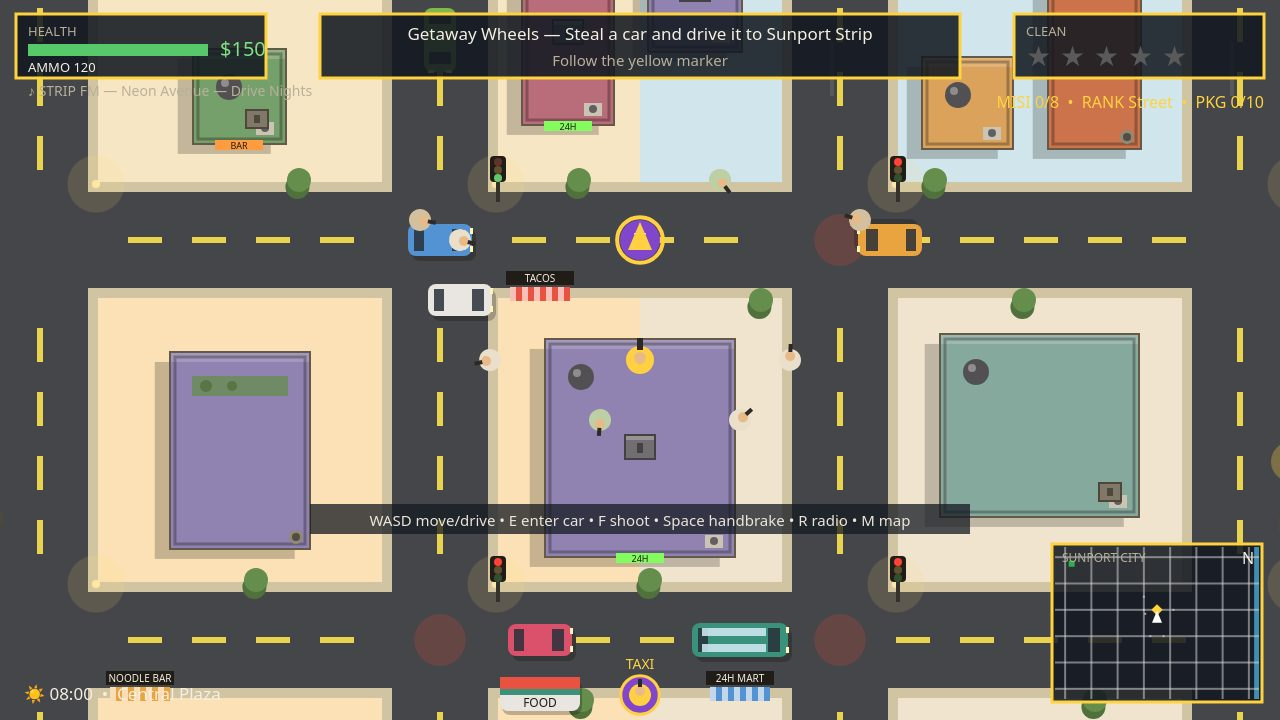
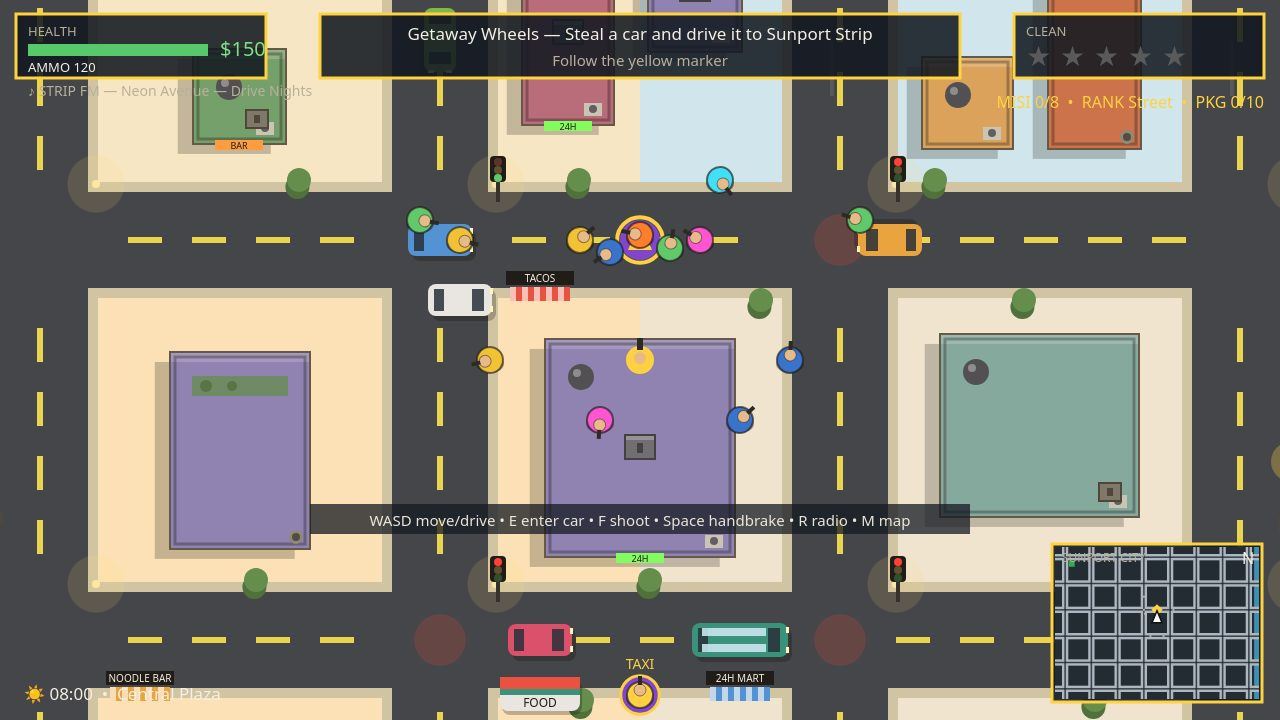
Sunport City round 6: visible pedestrians, street minimap

diff --git a/game/src/shots.js b/game/src/shots.js
@@ -58,6 +58,23 @@ function addPeds(state, spots) {
   }
 }
 
+// A group of pedestrians crossing the road together, in vivid shirt colours
+// so they read as people at a glance: staged in the middle of the frame.
+const CROSS_COLORS = ['#f2c230', '#2f6fd0', '#ff7a2a', '#58c96b', '#ff4fd8', '#9b59b6'];
+
+function addCrossingGroup(state, spots) {
+  spots.forEach(([x, y], i) => {
+    const ped = makePed(state, x, y, false);
+    ped.state = 'walk';
+    ped.mode = 'cross';
+    ped.crossAxis = 'h';
+    ped.crossDir = 1;
+    ped.crossLeft = 120;
+    ped.color = CROSS_COLORS[i % CROSS_COLORS.length];
+    state.peds.push(ped);
+  });
+}
+
 function frameCamera(state) {
   const p = state.player;
   state.camera.x = clamp(p.x - VIEW.width / 2, 0, WORLD.width - VIEW.width);
@@ -112,7 +129,8 @@ export function stageShot(name, state) {
       [1520, 940], [1680, 940], [1450, 1120], [1750, 1120],
       [1380, 980], [1820, 980], [1560, 1180], [1700, 1180],
     ]);
-    // One pedestrian mid-crossing at the crosswalk by the lights.
+    // One pedestrian mid-crossing at the crosswalk by the lights, plus a
+    // whole group crossing the Strip intersection in the middle of the frame.
     const crosser = state.peds[0];
     crosser.mode = 'cross';
     crosser.crossAxis = 'h';
@@ -120,6 +138,9 @@ export function stageShot(name, state) {
     crosser.crossLeft = 90;
     crosser.x = 1420;
     crosser.y = 1000;
+    addCrossingGroup(state, [
+      [1540, 1000], [1570, 1012], [1600, 995], [1630, 1008], [1660, 1000],
+    ]);
     addTrafficCar(state, 1400, 1000, 0, '#4a90d9');
     addTrafficCar(state, 1850, 1000, Math.PI, '#e8a13c');
     addTrafficCar(state, 1400, 800, Math.PI / 2, '#7ab648');
@@ -153,7 +174,7 @@ export function stageShot(name, state) {
     addTrafficCar(state, 1450, 1000, 0, '#e8a13c');
     addTrafficCar(state, 400, 1800, Math.PI, '#5a5a5a');
     addTrafficCar(state, 900, 1000, 0, '#f2c230', 'taxi');
-    addPeds(state, [[750, 1330], [900, 1470], [500, 1330]]);
+    addPeds(state, [[750, 1330], [900, 1470], [500, 1330], [700, 1330], [850, 1470], [1000, 1330], [1150, 1470]]);
     state.toast = { text: 'Mara Voss: "Checkpoint 2/5 — floor it!"', timer: 4 };
     frameCamera(state);
     return { screen: 'play' };
@@ -179,7 +200,7 @@ export function stageShot(name, state) {
     addPoliceCar(state, 2080, 2075, 0, 410);
     addTrafficCar(state, 1500, 2000, 0, '#4a90d9');
     addTrafficCar(state, 1750, 2000, 0, '#8a7a5a', 'truck');
-    addPeds(state, [[2400, 1940], [2550, 2060], [2300, 2080]]);
+    addPeds(state, [[2400, 1940], [2550, 2060], [2300, 2080], [2350, 1940], [2500, 1940], [2450, 2080], [2250, 1940]]);
     state.toast = { text: 'Mara Voss: "Last run, Kingpin. Bring it home!"', timer: 4 };
     frameCamera(state);
     return { screen: 'play' };
@@ -231,7 +252,11 @@ export function stageShot(name, state) {
   addTrafficCar(state, 1180, 1400, Math.PI, '#7ab648');
   addTrafficCar(state, 1750, 1000, 0, '#2f8f7a', 'bus');
   addTrafficCar(state, 1050, 1400, 0, '#f2c230', 'taxi');
-  addPeds(state, [[1500, 940], [1350, 1120], [1700, 1120], [1250, 940]]);
+  addPeds(state, [[1500, 940], [1350, 1120], [1700, 1120], [1250, 940], [1450, 1120], [1550, 1120]]);
+  // A group crossing the Strip just west of the chase, in the middle of the frame.
+  addCrossingGroup(state, [
+    [1080, 1000], [1110, 1012], [1140, 995], [1170, 1008], [1200, 1000],
+  ]);
   state.toast = { text: 'Mara Voss: "Eyes in the sky — four stars and counting!"', timer: 4 };
   frameCamera(state);
   return { screen: 'play' };

diff --git a/game/src/hud.js b/game/src/hud.js
@@ -2,7 +2,7 @@
 // logical screen space (1280x720) after the renderer switches the transform:
 // health and cash top-left, wanted stars top-right, the objective across the
 // top, the clock and district bottom-left, and the minimap bottom-right.
-import { FONT, FOOD_TRUCK, PALETTE, PLACES, RANKS, STOREFRONTS, VIEW, WORLD } from './config.js';
+import { FONT, FOOD_TRUCK, PALETTE, PLACES, RANKS, ROAD, STOREFRONTS, VIEW, WORLD } from './config.js';
 import { currentTarget } from './missions.js';
 import { districtAt } from './city.js';
 import { daylight } from './daynight.js';
@@ -53,12 +53,23 @@ function drawMinimap(ctx, state, big) {
   ctx.beginPath();
   ctx.rect(x + 3, y + 3, w - 6, h - 6);
   ctx.clip();
-  // Water and roads.
+  // City blocks: a dark map bed, so the streets read as light roads on it.
+  ctx.fillStyle = '#232b33';
+  ctx.fillRect(x + 3, y + 3, w - 6, h - 6);
+  // Water on the east edge.
   ctx.fillStyle = PALETTE.water;
   ctx.fillRect(x + state.city.water.x * sx, y, state.city.water.w * sx, h);
-  ctx.fillStyle = 'rgba(220,220,220,0.5)';
-  for (const vx of state.city.lines.vertical) ctx.fillRect(x + vx * sx - 1, y, 2, h);
-  for (const hy of state.city.lines.horizontal) ctx.fillRect(x, y + hy * sy - 1, w, 2);
+  // The actual street network: each road drawn at its true width, light
+  // grey on the dark blocks, with a thin dark centre line down the middle
+  // so every street reads as a street, GTA-style.
+  const roadW = ROAD.width * sx;
+  const roadH = ROAD.width * sy;
+  ctx.fillStyle = '#aeb6bf';
+  for (const vx of state.city.lines.vertical) ctx.fillRect(x + vx * sx - roadW / 2, y, roadW, h);
+  for (const hy of state.city.lines.horizontal) ctx.fillRect(x, y + hy * sy - roadH / 2, w, roadH);
+  ctx.fillStyle = 'rgba(35,43,51,0.85)';
+  for (const vx of state.city.lines.vertical) ctx.fillRect(x + vx * sx - 0.75, y, 1.5, h);
+  for (const hy of state.city.lines.horizontal) ctx.fillRect(x, y + hy * sy - 0.75, w, 1.5);
   // Safehouse.
   ctx.fillStyle = '#2fae4e';
   ctx.fillRect(x + PLACES.safehouse.x * sx - 3, y + PLACES.safehouse.y * sy - 3, 6, 6);
@@ -109,6 +120,9 @@ function drawMinimap(ctx, state, big) {
   ctx.lineTo(-5, 5);
   ctx.closePath();
   ctx.fill();
+  ctx.strokeStyle = '#111';
+  ctx.lineWidth = 1.5;
+  ctx.stroke();
   ctx.restore();
   ctx.restore();
   // North.

diff --git a/game/src/render.js b/game/src/render.js
@@ -402,22 +402,36 @@ export function createRenderer(canvas) {
       context.rotate(Math.PI / 2);
       context.fillStyle = ped.color;
       context.beginPath();
-      context.arc(0, 0, 11, 0, Math.PI * 2);
+      context.arc(0, 0, 13, 0, Math.PI * 2);
       context.fill();
+      context.strokeStyle = 'rgba(20,20,20,0.6)';
+      context.lineWidth = 2;
+      context.stroke();
       context.restore();
       return;
     }
+    // Soft ground shadow, so the walker reads against any ground or road.
+    context.fillStyle = 'rgba(0,0,0,0.30)';
+    context.beginPath();
+    context.ellipse(0, 4, 14, 9, 0, 0, Math.PI * 2);
+    context.fill();
     context.rotate(ped.angle);
     context.fillStyle = ped.armed ? '#c0392b' : ped.color;
     context.beginPath();
-    context.arc(0, 0, 11, 0, Math.PI * 2);
+    context.arc(0, 0, 13, 0, Math.PI * 2);
     context.fill();
+    context.strokeStyle = 'rgba(20,20,20,0.65)';
+    context.lineWidth = 2;
+    context.stroke();
     context.fillStyle = '#e8b98a';
     context.beginPath();
-    context.arc(4, 0, 5, 0, Math.PI * 2);
+    context.arc(5, 0, 6, 0, Math.PI * 2);
     context.fill();
+    context.strokeStyle = 'rgba(20,20,20,0.5)';
+    context.lineWidth = 1;
+    context.stroke();
     context.fillStyle = '#222';
-    context.fillRect(8, -2, 8, 4);
+    context.fillRect(10, -2, 9, 4);
     context.restore();
   }
 

diff --git a/game/src/config.js b/game/src/config.js
@@ -183,7 +183,7 @@ export const PALETTE = {
   playerCar: '#e84c3d',
   policeCar: '#2f6fd0',
   police: '#24344d',
-  ped: ['#e8e0d0', '#d0c0a0', '#a8c8d8', '#d8a8b0', '#b8d0a8'],
+  ped: ['#2f6fd0', '#f2c230', '#58c96b', '#ff7a2a', '#9b59b6', '#37e0ff', '#ff4fd8'],
   trafficCar: ['#4a90d9', '#d94a6a', '#e8e8e8', '#5a5a5a', '#7ab648', '#e8a13c'],
   marker: '#ffd23f',
   danger: '#e84c3d',
